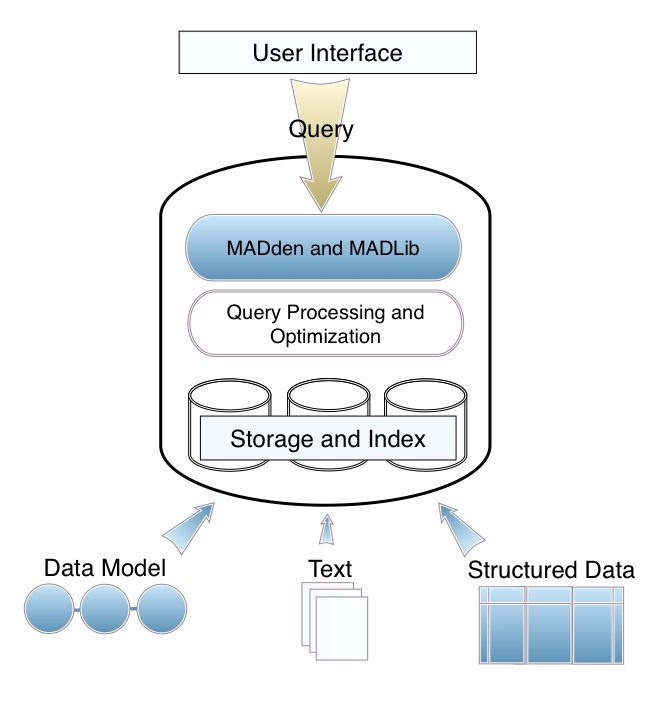
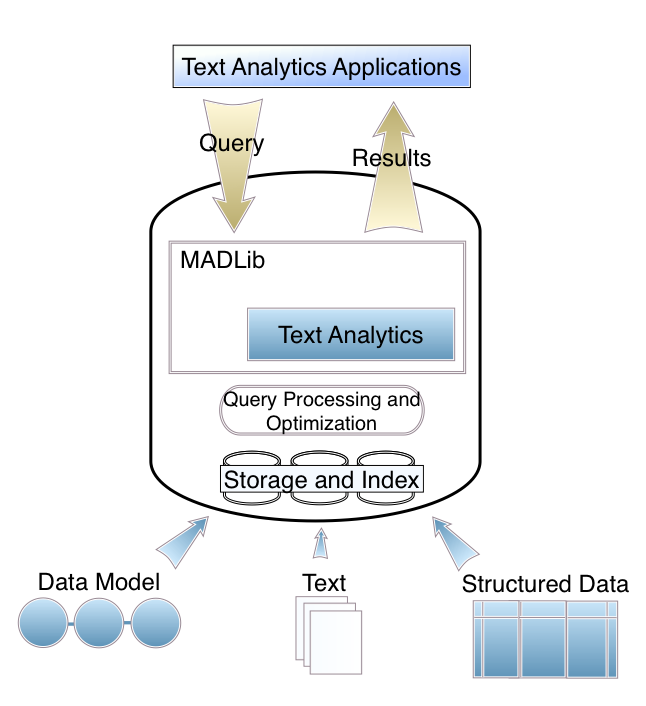
changed arch picture and the entity find function

Changed region(s): [[0.031, 0.0312, 0.9907, 0.966], [0.5263, 0.9037, 0.5573, 0.9348]]

diff --git a/paper/vldb12/content/new_systemdemonstration.tex b/paper/vldb12/content/new_systemdemonstration.tex
@@ -20,8 +20,9 @@ extracted from various sports media websites. These documents vary in size and
 quality, with some potential out-of domain documents (mainly tweets).
 
 The other tables are more structured,
-including {\tt PlayerStats2011\_*}, with * indicating passing ({\tt Pass}), Receiving ({\tt
-Rec}), Rushing ({\tt Rush}), Special Teams ({\tt ST}), or Defense ({\tt Def}).
+including the {\tt PlayerStats2011} tables\footnote{The * indicates passing ({\tt Pass}),
+Receiving ({\tt Rec}), Rushing ({\tt Rush}), Special Teams ({\tt ST}), or
+Defense ({\tt Def})\label{fn:playerstats}}.
 This data was extracted from the NFL.com player database. Each table contains
 the player's \textit{name}, \textit{position}, \textit{number}, and a series of
 stats corresponding to the stat type (Some players show up in multiple tables, others in only one). The
@@ -40,17 +41,18 @@ extracted entities found in the {\tt NFLCorpus} documents.
 \hline
 \multicolumn{2}{|c|}{Example Schema}\\
 \hline
-$NFLCorpus$ & \textit{doc\_id, type, text, tstmp, tags, \ldots}\\
+$NFLCorpus$ & \textit{doc\_id, type, text, tstmp, tags, }\\
 \hline
-$PlayerStats2011\_*$ & \textit{pid, specific stats\ldots }\\
+$PlayerStats2011\footref{fn:playerstats}$ &
+\textit{pid, type\_specific\_stats\ldots }\\
 \hline
-$Player$ & \textit{pid, f\_name, l\_name, college, \ldots}\\
+$Player$ & \textit{pid, f\_name, l\_name, college, etc}\\
 \hline
-$Team\_Stats2011$ & \textit{team, points, pass\_yds, stats\ldots}\\
+$Team\_Stats2011$ & \textit{team, points, pass\_yds, various\_stats}\\
 \hline
-$Team$ & \textit{team, city, state, stadium, \ldots}\\
+$Team$ & \textit{team, city, state, stadium}\\
 \hline
-$Extracted\_Entities$ & \textit{doc\_id, entity, \ldots} \\
+$Extracted\_Entities$ & \textit{doc\_id, entity} \\
 \hline
 
 \end{tabular}

diff --git a/paper/vldb12/madden.tex b/paper/vldb12/madden.tex
@@ -7,6 +7,7 @@
 \usepackage{alltt}
 \usepackage{hyperref}
 \usepackage{enumitem}
+\usepackage{footmisc}
 
 \newcommand{\ceg}[1]{{\textcolor{blue}{#1 -- CEG}}}
 \newcommand{\jag}[1]{{\textcolor{red}{#1 -- JAG}}}
